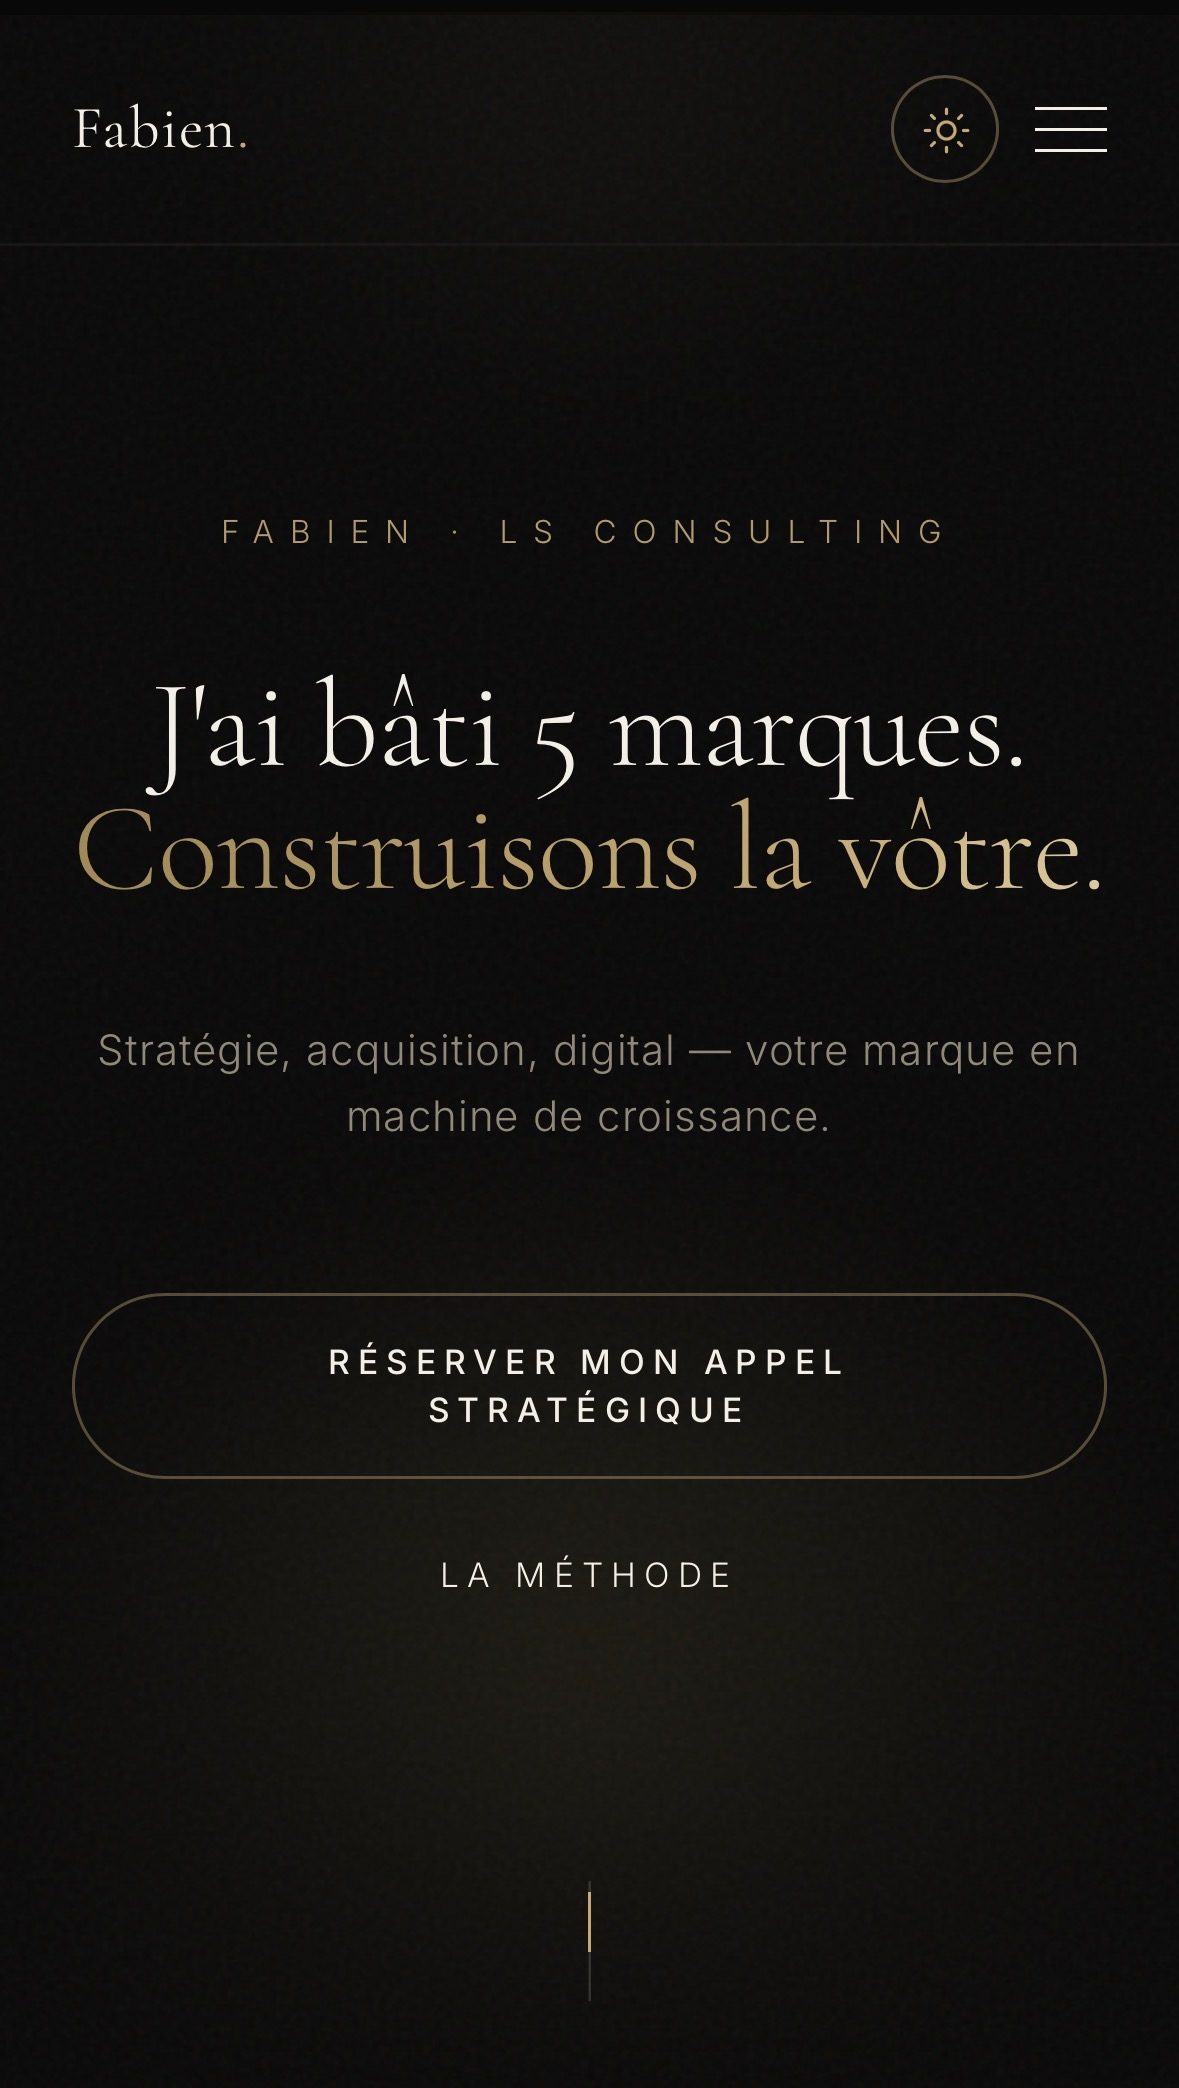
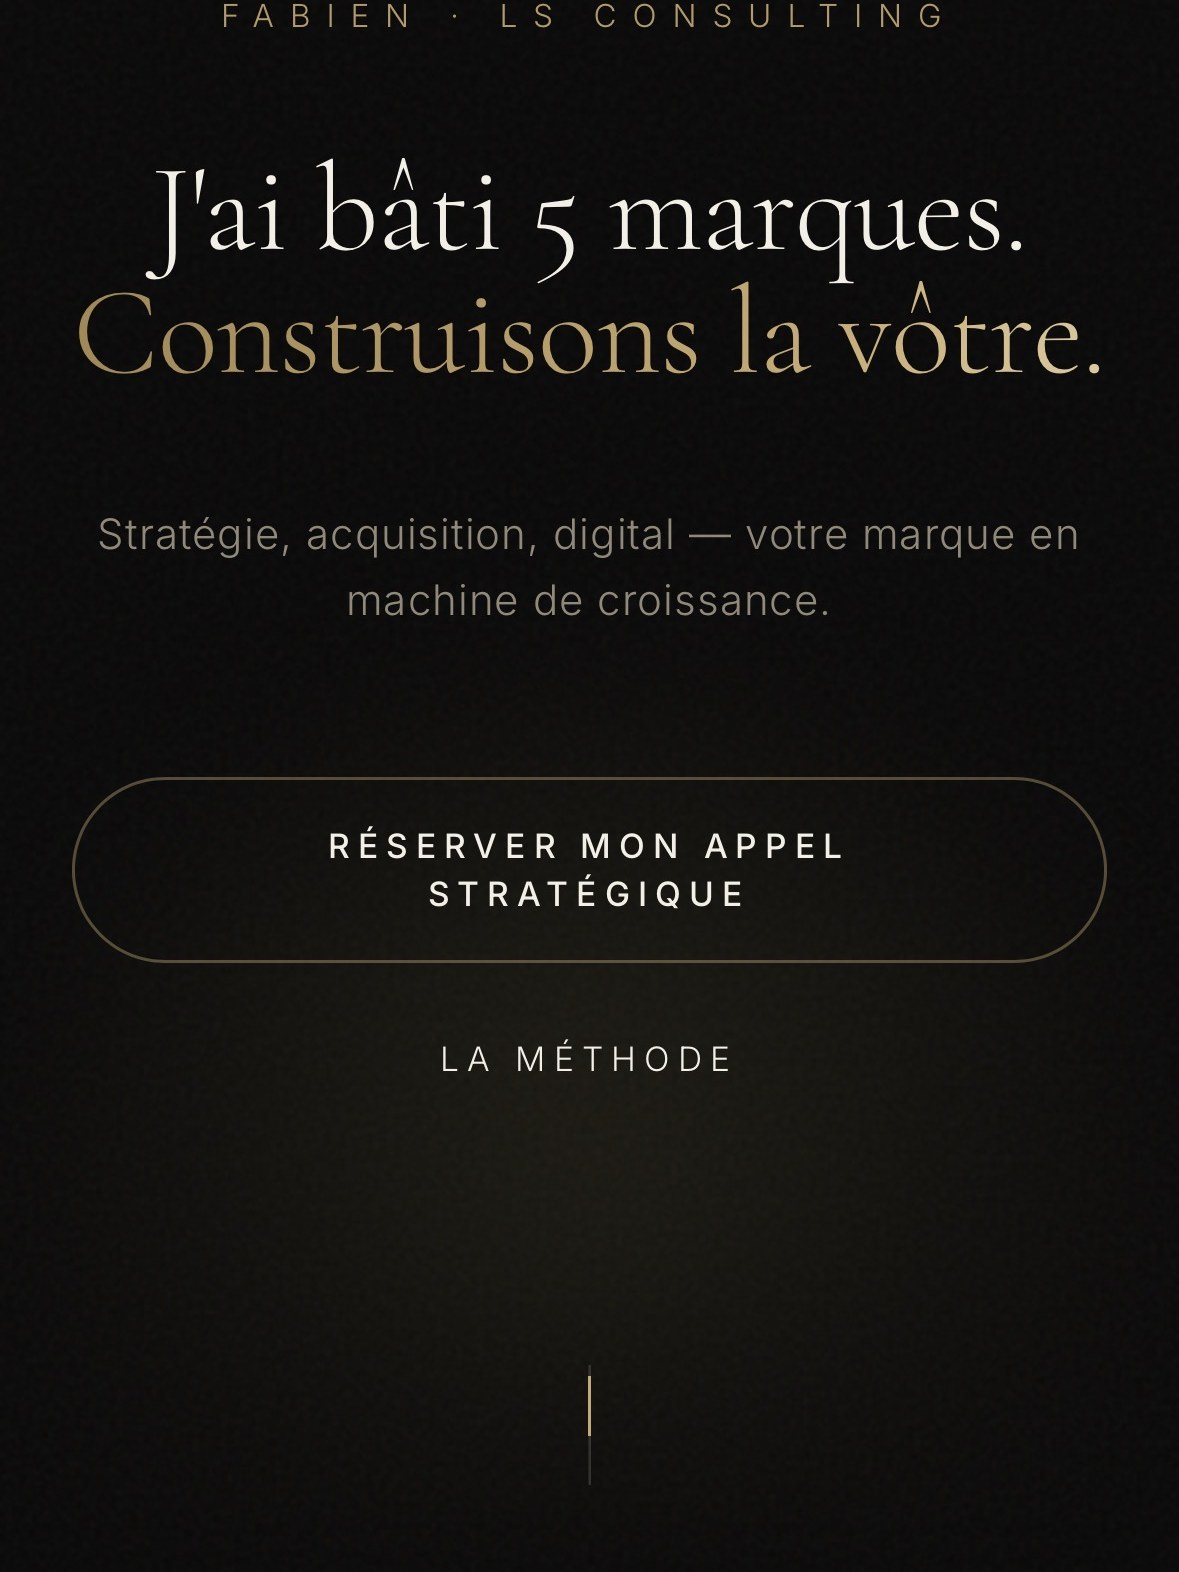
fix(site): recadre les captures Créations web sur le hero + cadre portrait 3/4 (première page bien visible)

diff --git a/components/blocks/CreationsSection.tsx b/components/blocks/CreationsSection.tsx
@@ -100,7 +100,7 @@ export function CreationsSection() {
                 {/* Capture d'écran */}
                 <div
                   className="relative w-full overflow-hidden"
-                  style={{ aspectRatio: "16 / 10", background: "#f0ede6" }}
+                  style={{ aspectRatio: "3 / 4", background: "#f0ede6" }}
                 >
                   <Image
                     src={c.image}